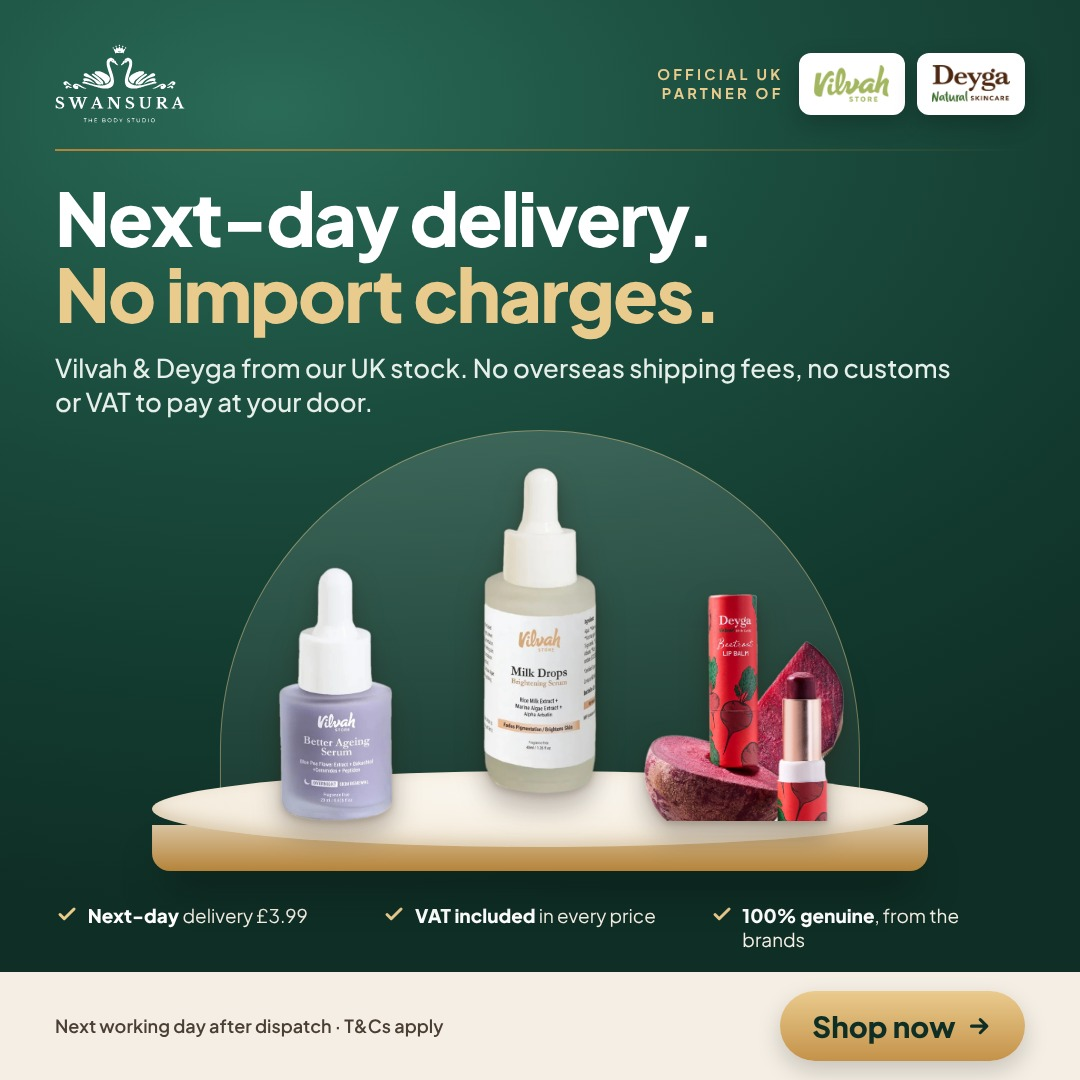
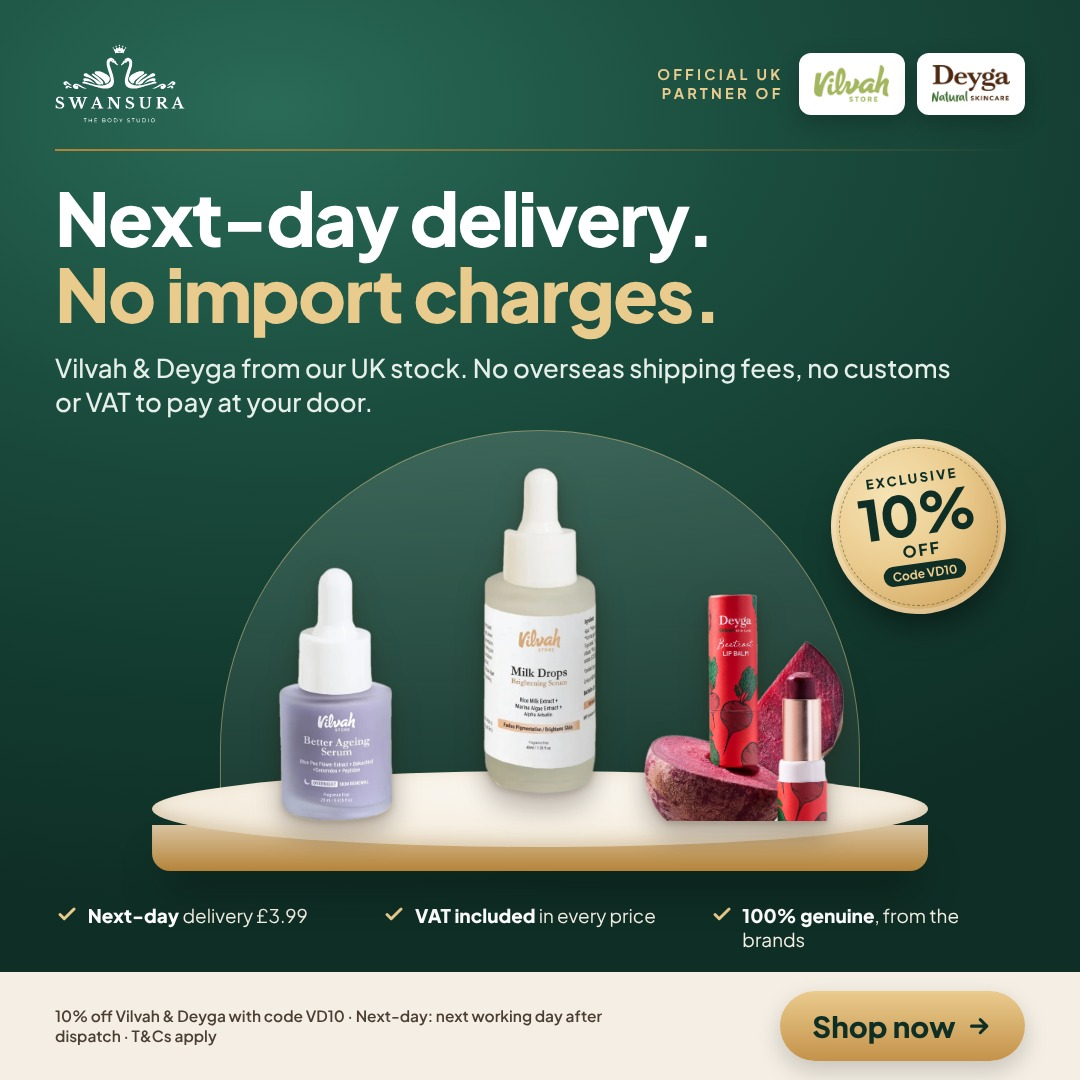
USP image ads: image 2 redesigned with Deyga products, 10% VD10 seal on both
Claude-Session: https://claude.ai/code/session_01FHVN4n8tpWTTcEhNkMK5Am

Changed region(s): [[0.7639, 0.3972, 0.9472, 0.5806], [0.0306, 0.9167, 0.55, 0.9778]]

diff --git a/docs/ads/usp_2026-11-18/src/build.js b/docs/ads/usp_2026-11-18/src/build.js
@@ -8,11 +8,12 @@ const C={
  1:{h1:'Next-day delivery.',h2:'No import charges.',
     sub:'Vilvah &amp; Deyga from our UK stock. No overseas shipping fees, no customs or VAT to pay at your door.',
     ticks:['<b>Next-day</b> delivery £3.99','<b>VAT included</b> in every price','<b>100% genuine</b>, from the brands'],
-    prods:[['p_milkdrops40.png',50,20,72],['p_betterageing.png',29,14,56],['lip_beet.png',71,14,50]],fine:'Next working day after dispatch · T&amp;Cs apply'},
- 2:{kind:'cmp',h1:'Love Vilvah &amp; Deyga?',h2:'Skip the overseas order.',
-    bad:['Shipping fee on every order','Customs, VAT &amp; duty at your door','Long wait for international post'],
-    good:['UK prices, VAT included','No import charges, ever','<b>Next-day delivery</b> available','Free UK delivery over £40'],
-    prods:[['p_milkdrops20.png',40,18,78],['p_facewash.png',60,18,70]],fine:'Next-day: next working day after dispatch · T&amp;Cs apply'}};
+    prods:[['p_milkdrops40.png',50,20,72],['p_betterageing.png',29,14,56],['lip_beet.png',71,14,50]],fine:'10% off Vilvah &amp; Deyga with code VD10 · Next-day: next working day after dispatch · T&amp;Cs apply'},
+ 2:{kind:'tiles',h1:'Skip the overseas delay',h2:'and import charges.',
+    sub:'Genuine Vilvah &amp; Deyga, shipped from our UK stock.',
+    tiles:[['truck','Next-day','UK delivery'],['shield','No customs','or import fees'],['tag','VAT included','UK prices']],
+    prods:[['p_milkdrops40.png',50,20,74],['p_dg_vitc_wash.png',30,14,60],['p_dg_roseglow.png',72,14,50]],fine:'10% off Vilvah &amp; Deyga with code VD10 · Next-day: next working day after dispatch · T&amp;Cs apply'}};
+const ICON={"truck": "<path d=\"M3 7h11v9H3zM14 10h4l3 3v3h-7z\"/><circle cx=\"7\" cy=\"17.5\" r=\"1.8\"/><circle cx=\"17\" cy=\"17.5\" r=\"1.8\"/>", "shield": "<path d=\"M12 3l7 3v5c0 4.5-3 8-7 10-4-2-7-5.5-7-10V6z\"/><path d=\"M8.5 12l2.4 2.4L15.5 10\"/>", "tag": "<path d=\"M3 12V4h8l10 10-8 8z\"/><circle cx=\"7.5\" cy=\"8.5\" r=\"1.4\"/>"};
 const SZ={'4x5':[1080,1350],'1x1':[1080,1080],'9x16':[1080,1920]};
 function html(c,W,H){const sq=W==H,tl=H>1500,k=sq?.86:1;
 const padT=tl?250:sq?44:58, padB=tl?260:0;
@@ -30,8 +31,8 @@ body{width:${W}px;height:${H}px;overflow:hidden;font-family:PJS;color:#F4EEE4;
 .pill img{height:${44*k}px}
 .rule{height:2px;margin:${30*k}px ${64*k}px 0;background:linear-gradient(90deg,#B5843A,rgba(181,132,58,0))}
 .head{position:relative;z-index:2;padding:${34*k}px ${64*k}px 0}
-.h1{font-size:${(c.kind=='cmp'?78:86)*k}px;font-weight:800;letter-spacing:-.025em;line-height:1;color:#fff}
-.h2{font-size:${(c.kind=='cmp'?78:86)*k}px;font-weight:800;letter-spacing:-.025em;line-height:1.05;color:#EACB8E}
+.h1{font-size:${(c.kind?80:86)*k}px;font-weight:800;letter-spacing:-.025em;line-height:1;color:#fff}
+.h2{font-size:${(c.kind?80:86)*k}px;font-weight:800;letter-spacing:-.025em;line-height:1.05;color:#EACB8E}
 .sub{margin-top:${22*k}px;max-width:${sq?900:880}px;font-size:${30*k}px;font-weight:500;line-height:1.35;color:#E6EFEA}
 .stage{flex:1;position:relative;margin:${sq?10:24}px ${64*k}px 0;min-height:0}
 .arch{position:absolute;left:50%;transform:translateX(-50%);top:0;bottom:16%;width:min(66%,calc((100% - 0px)*1));aspect-ratio:auto;border-radius:999px 999px 28px 28px;
@@ -50,12 +51,26 @@ body{width:${W}px;height:${H}px;overflow:hidden;font-family:PJS;color:#F4EEE4;
 .bad h3{color:rgba(244,238,228,.6)}.bad i{color:#D98C7E}
 .good{background:linear-gradient(180deg,#FBF7F0,#F1E7D6);color:#133A2F;border:2px solid #EACB8E;box-shadow:0 18px 40px -16px rgba(0,0,0,.6)}
 .good h3{color:#8C6226}.good i{color:#1B4D3E}.good b{font-weight:800}
+.tiles{display:flex;gap:${16*k}px;margin:${sq?18:28}px ${64*k}px 0;position:relative;z-index:2}
+.tile{flex:1;display:flex;align-items:center;gap:${14*k}px;background:linear-gradient(180deg,#FBF7F0,#F1E7D6);border:1.5px solid #EACB8E;border-radius:${18*k}px;padding:${18*k}px ${18*k}px;color:#133A2F;box-shadow:0 14px 30px -14px rgba(0,0,0,.55)}
+.tile .ic{flex:none;width:${54*k}px;height:${54*k}px;border-radius:50%;background:#1B4D3E;display:flex;align-items:center;justify-content:center}
+.tile .ic svg{width:58%;height:58%;fill:none;stroke:#EACB8E;stroke-width:1.9;stroke-linecap:round;stroke-linejoin:round}
+.tile b{display:block;font-size:${24*k}px;font-weight:800;line-height:1.15}
+.tile span{display:block;font-size:${19*k}px;font-weight:600;color:#4B3E33;line-height:1.2}
+.seal{position:absolute;z-index:3;right:${sq?2:0}%;top:${sq?2:4}%;width:${(tl?230:sq?175:205)}px;height:${(tl?230:sq?175:205)}px;border-radius:50%;
+ background:radial-gradient(circle at 35% 30%,#F6E2B4,#EACB8E 45%,#C4924A 100%);color:#0F2E25;display:flex;flex-direction:column;align-items:center;justify-content:center;text-align:center;
+ box-shadow:0 18px 36px -12px rgba(0,0,0,.6),inset 0 0 0 ${6*k}px rgba(255,255,255,.25);transform:rotate(-8deg)}
+.seal::after{content:'';position:absolute;inset:${9*k}px;border-radius:50%;border:1.5px dashed rgba(15,46,37,.45)}
+.seal .x{font-size:${(tl?17:sq?13:15)}px;font-weight:800;letter-spacing:.18em;text-transform:uppercase}
+.seal .p{font-size:${(tl?76:sq?56:66)}px;font-weight:800;line-height:.95;letter-spacing:-.03em}
+.seal .o{font-size:${(tl?22:sq?16:19)}px;font-weight:800;letter-spacing:.12em;text-transform:uppercase}
+.seal .c{margin-top:${4*k}px;font-size:${(tl?16:sq?12:14)}px;font-weight:700;background:#0F2E25;color:#EACB8E;border-radius:999px;padding:${3*k}px ${10*k}px}
 .ticks{display:flex;justify-content:space-between;gap:${14*k}px;padding:${sq?18:30}px ${64*k}px ${sq?20:30}px}
 .ticks div{flex:1;display:flex;gap:${10*k}px;align-items:flex-start;font-size:${22*k}px;line-height:1.3;color:#F4EEE4}
 .ticks svg{flex:none;font-size:${28*k}px;margin-top:-1px}
 .ticks b{font-weight:800;color:#fff}
 .bar{display:flex;align-items:center;justify-content:space-between;background:#F4EEE4;color:#133A2F;padding:${22*k}px ${64*k}px}
-.bar .fine{font-size:${21*k}px;font-weight:600;color:#4B3E33;max-width:62%;line-height:1.3}
+.bar .fine{font-size:${18*k}px;font-weight:600;color:#4B3E33;max-width:62%;line-height:1.3}
 .btn{display:flex;align-items:center;gap:${12*k}px;background:linear-gradient(180deg,#EACB8E,#C4924A);color:#0F2E25;font-weight:800;font-size:${34*k}px;padding:${20*k}px ${38*k}px;border-radius:999px;box-shadow:0 10px 24px rgba(0,0,0,.18)}
 ${tl?'.bar{position:absolute;left:0;right:0;bottom:-'+(padB-40)+'px}':''}
 </style></head><body><div class="wrap">
@@ -63,8 +78,8 @@ ${tl?'.bar{position:absolute;left:0;right:0;bottom:-'+(padB-40)+'px}':''}
 <div class="partner"><span>Official UK<br>partner of</span><div class="pill"><img src="${b64('vilvah.webp')}"></div><div class="pill"><img src="${b64('deyga.webp')}"></div></div></div>
 <div class="rule"></div>
 <div class="head"><div class="h1">${c.h1}</div><div class="h2">${c.h2}</div>${c.sub?`<div class="sub">${c.sub}</div>`:''}</div>
-${c.kind=='cmp'?`<div class="cmp"><div class="card bad"><h3>Ordered from overseas</h3><ul>${c.bad.map(t=>`<li><i>✕</i><span>${t}</span></li>`).join('')}</ul></div><div class="card good"><h3>With Swansura</h3><ul>${c.good.map(t=>`<li><i>✓</i><span>${t}</span></li>`).join('')}</ul></div></div>`:''}<div class="stage"><div class="arch"></div><div class="plinth"><div class="face"></div><div class="top"></div></div>${c.prods.map(([f,x,bo,h])=>`<img class="item" style="left:${x}%;bottom:${bo}%;height:${h}%" src="${b64(f)}">`).join('')}</div>
-${c.kind=='cmp'?'':`<div class="ticks">${c.ticks.map(t=>`<div>${TICK}<span>${t}</span></div>`).join('')}</div>`}
+${c.kind=='tiles'?`<div class="tiles">${c.tiles.map(([i,b,t])=>`<div class="tile"><div class="ic"><svg viewBox="0 0 24 24">${ICON[i]}</svg></div><div><b>${b}</b><span>${t}</span></div></div>`).join('')}</div>`:''}${c.kind=='cmp'?`<div class="cmp"><div class="card bad"><h3>Ordered from overseas</h3><ul>${c.bad.map(t=>`<li><i>✕</i><span>${t}</span></li>`).join('')}</ul></div><div class="card good"><h3>With Swansura</h3><ul>${c.good.map(t=>`<li><i>✓</i><span>${t}</span></li>`).join('')}</ul></div></div>`:''}<div class="stage"><div class="arch"></div><div class="seal"><div class="x">Exclusive</div><div class="p">10%</div><div class="o">off</div><div class="c">Code VD10</div></div><div class="plinth"><div class="face"></div><div class="top"></div></div>${c.prods.map(([f,x,bo,h])=>`<img class="item" style="left:${x}%;bottom:${bo}%;height:${tl?Math.round(h*.72):h}%" src="${b64(f)}">`).join('')}</div>
+${c.kind?'':`<div class="ticks">${c.ticks.map(t=>`<div>${TICK}<span>${t}</span></div>`).join('')}</div>`}
 <div class="bar"><div class="fine">${c.fine}</div><div class="btn">Shop now ${ARR}</div></div>
 </div></body></html>`}
 (async()=>{const b=await chromium.launch();
